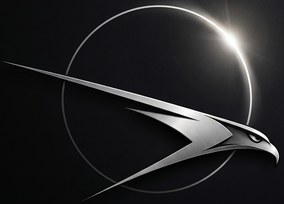
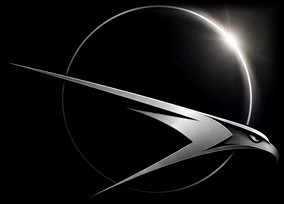
style: refine brand header and surfaces
Header emblem cropped from the high-resolution logo, skip link, eyebrow labels,
subtle radial glow on the body and lighter line tokens.

diff --git a/painel-hackatohm/src/components/Header.tsx b/painel-hackatohm/src/components/Header.tsx
@@ -1,11 +1,11 @@
 import React from 'react';
 import { Link, NavLink, useLocation } from 'react-router-dom';
-import harrierMark from '../assets/harrier-mark.png';
+import harrierEmblem from '../assets/harrier-emblem.jpg';
 import { useConexaoHub } from '@/features/telemetria/hooks/useTelemetriaStore';
 import { SIMULADOR_ATIVO } from '@/dev/simuladorAtivo';
 
 const linkBase =
-  'relative flex h-14 items-center px-1 text-sm transition-colors after:absolute after:inset-x-1 after:bottom-0 after:h-px after:transition-colors';
+  'relative flex h-14 items-center whitespace-nowrap px-1 text-sm transition-colors after:absolute after:inset-x-1 after:bottom-0 after:h-px after:transition-colors';
 
 const ConexaoAoVivo: React.FC = () => {
   const statusConexaoHub = useConexaoHub();
@@ -56,7 +56,7 @@ const FaixaHubDesconectado: React.FC = () => {
 
 const BadgeSimulacao: React.FC = () => (
   <span
-    className="rounded-full border border-line-strong px-2.5 py-0.5 text-xs text-ink-2"
+    className="rounded-full border border-line-strong px-2.5 py-0.5 text-xs text-ink-2 max-sm:px-2"
     title="Os dados desta tela são fictícios (VITE_SIMULADOR=true)"
   >
     Simulação
@@ -71,7 +71,15 @@ export const Header: React.FC = () => {
     <header className="sticky top-0 z-30 border-b border-line bg-canvas/85 backdrop-blur-md">
       <div className="mx-auto flex h-14 w-full max-w-[1280px] items-center gap-5 px-5 sm:gap-8 sm:px-8">
         <Link to="/" className="flex items-center gap-3" aria-label="Harrier, início">
-          <img src={harrierMark} alt="" className="h-8 w-auto" />
+          {/* Recorte da logo em alta resolução; `screen` apaga o fundo escuro e deixa só o aço e a luz. */}
+          <img
+            src={harrierEmblem}
+            alt=""
+            width={46}
+            height={33}
+            className="h-[33px] w-[46px] object-contain"
+            style={{ mixBlendMode: 'screen' }}
+          />
           <span
             className="hidden text-[13px] font-medium uppercase text-ink sm:inline"
             style={{ fontStretch: '125%', letterSpacing: '0.34em' }}

diff --git a/painel-hackatohm/src/index.css b/painel-hackatohm/src/index.css
@@ -17,7 +17,15 @@
   body {
     margin: 0;
     min-height: 100vh;
-    background: var(--color-canvas);
+    /* Brilho radial quase imperceptível no canto superior direito: o eclipse da logo. */
+    background:
+      radial-gradient(
+        58rem 34rem at 88% -6%,
+        color-mix(in srgb, var(--color-flare) 6%, transparent),
+        transparent 70%
+      )
+      no-repeat,
+      var(--color-canvas);
     color: var(--color-ink);
     font-family: var(--font-sans);
     font-size: 15px;
@@ -86,6 +94,26 @@
   .num {
     font-variant-numeric: tabular-nums;
     font-feature-settings: 'tnum' 1;
+  }
+
+  /* Link para pular a navegação: só aparece com o foco do teclado */
+  .skip-link {
+    position: absolute;
+    left: 16px;
+    top: -64px;
+    z-index: 60;
+    padding: 10px 16px;
+    border-radius: var(--radius-control);
+    background: var(--color-flare);
+    color: var(--color-canvas);
+    font-size: 14px;
+    font-weight: 500;
+    text-decoration: none;
+    transition: top 0.15s var(--ease-out);
+  }
+  .skip-link:focus-visible {
+    top: 12px;
+    outline-offset: 2px;
   }
 
   /* Sobretítulo: 10 px, caixa alta, espaçamento largo */

diff --git a/painel-hackatohm/src/components/Layout.tsx b/painel-hackatohm/src/components/Layout.tsx
@@ -4,8 +4,15 @@ import { Header } from './Header';
 
 export const Layout: React.FC = () => (
   <div className="flex min-h-screen flex-col">
+    <a href="#conteudo" className="skip-link">
+      Pular para o conteúdo
+    </a>
     <Header />
-    <main className="mx-auto w-full max-w-[1280px] flex-1 px-5 pb-24 pt-10 sm:px-8 sm:pt-14">
+    <main
+      id="conteudo"
+      tabIndex={-1}
+      className="mx-auto w-full max-w-[1280px] flex-1 px-5 pb-24 pt-10 outline-none sm:px-8 sm:pt-14"
+    >
       <Outlet />
     </main>
   </div>

diff --git a/painel-hackatohm/src/styles/tokens.css b/painel-hackatohm/src/styles/tokens.css
@@ -9,8 +9,8 @@
   --color-canvas: #0b0d10;
   --color-panel: #111418;
   --color-raised: #171b21;
-  --color-line: #1f252c;
-  --color-line-strong: #2c343e;
+  --color-line: #282f36;
+  --color-line-strong: #3b4651;
 
   /* Texto (aço) */
   --color-ink: #e6e9ed;
